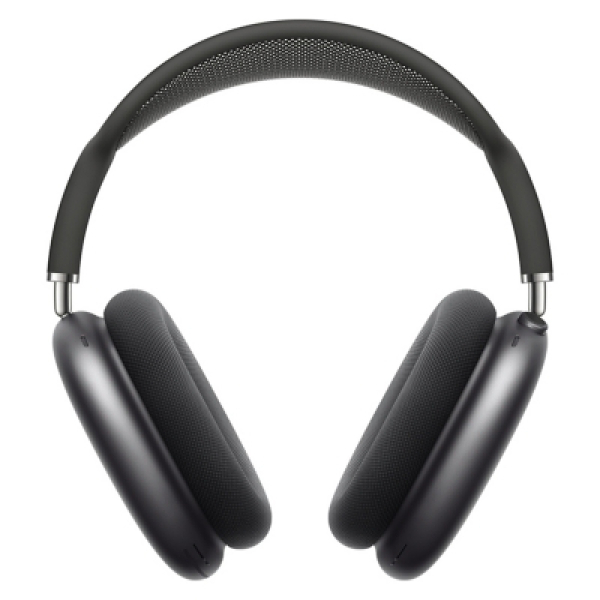
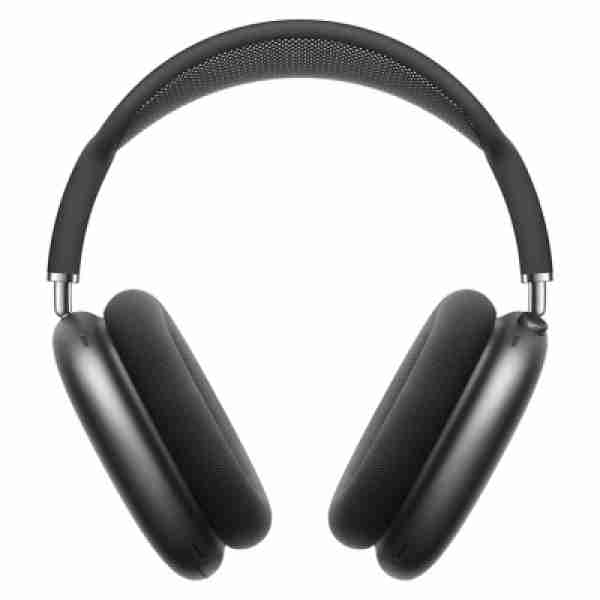
optimize images

Changed region(s): [[0.33, 0.06, 0.72, 0.15], [0.27, 0.12, 0.33, 0.15]]

diff --git a/frontend/src/pages/home.page.tsx b/frontend/src/pages/home.page.tsx
@@ -34,31 +34,31 @@ const HomePage: React.FC = () => {
                 <Grid doubling columns={5}>
                     <Grid.Column className={globalStyles.card}>
                         <Link to='./category/1'>
-                            <Image src='/images/electronics.png' className={styles.gridImage} />
+                            <Image src='/images/electronics.jpg' className={styles.gridImage} />
                             <h5>Electronics</h5>
                         </Link>
                     </Grid.Column>
                     <Grid.Column className={globalStyles.card}>
                         <Link to='./category/2'>
-                            <Image src='/images/videogames.png' className={styles.gridImage} />
+                            <Image src='/images/videogames.jpg' className={styles.gridImage} />
                             <h5>Video games</h5>
                         </Link>
                     </Grid.Column>
                     <Grid.Column className={globalStyles.card}>
                         <Link to='./category/3'>
-                            <Image src='/images/shoes.png' className={styles.gridImage} />
+                            <Image src='/images/shoes.jpg' className={styles.gridImage} />
                             <h5>Shoes</h5>
                         </Link>
                     </Grid.Column>
                     <Grid.Column className={globalStyles.card}>
                         <Link to='./category/4'>
-                            <Image src='/images/beauty.png' className={styles.gridImage} />
+                            <Image src='/images/beauty.jpg' className={styles.gridImage} />
                             <h5>Beauty & Health</h5>
                         </Link>
                     </Grid.Column>
                     <Grid.Column className={globalStyles.card}>
                         <Link to='./category/5'>
-                            <Image src='/images/toys.png' className={styles.gridImage} />
+                            <Image src='/images/toys.jpg' className={styles.gridImage} />
                             <h5>Toys & Kids</h5>
                         </Link>
                     </Grid.Column>

diff --git a/frontend/src/components/home/carousel.component.tsx b/frontend/src/components/home/carousel.component.tsx
@@ -44,9 +44,9 @@ const Carousel = () => {
                     reloadOnUpdate // default false
                     static // default false
                 >
-                    <img src="/images/electronics-carousal.png" />
-                    <img src="/images/beauty-carousal.png" />
-                    <img src="/images/toys-carousal.png" />
+                    <img src="/images/electronics-carousal.jpg" />
+                    <img src="/images/beauty-carousal.jpg" />
+                    <img src="/images/toys-carousal.jpg" />
                 </Flickity>
             </div>
             <div className={styles.carouselMobile}>
@@ -58,9 +58,9 @@ const Carousel = () => {
                     reloadOnUpdate // default false
                     static // default false
                 >
-                    <img src="/images/electronics-carousal-mobile.png" />
-                    <img src="/images/beauty-carousal-mobile.png" />
-                    <img src="/images/toys-carousal-mobile.png" />
+                    <img src="/images/electronics-carousal-mobile.jpg" />
+                    <img src="/images/beauty-carousal-mobile.jpg" />
+                    <img src="/images/toys-carousal-mobile.jpg" />
                 </Flickity>
             </div>
         </div>

diff --git a/frontend/webpack.config.js b/frontend/webpack.config.js
@@ -1,5 +1,6 @@
 const HtmlWebpackPlugin = require("html-webpack-plugin");
 const path = require("path");
+const Dotenv = require('dotenv-webpack');
 
 module.exports = {
     devtool: 'source-map',
@@ -52,6 +53,7 @@ module.exports = {
         ],
     },
     plugins: [
+        new Dotenv(),
         new HtmlWebpackPlugin({
         template: path.resolve(__dirname, "src/static", "index.html")
         })

diff --git a/frontend/src/components/header.component.tsx b/frontend/src/components/header.component.tsx
@@ -74,7 +74,7 @@ const Header = () => {
                 }
                 <li>
                     <Link to="/" replace>
-                        <img src='./images/circle.png' className={styles.logo} />
+                        <img src='./images/circle.jpg' className={styles.logo} />
                     </Link>
                 </li>
                 <li>

diff --git a/frontend/src/components/payment/promise.component.tsx b/frontend/src/components/payment/promise.component.tsx
@@ -1,5 +1,5 @@
 import { loadStripe } from '@stripe/stripe-js';
 
-const stripePromise = loadStripe('pk_test_51IaXztHM7dAIbx9CakfK3kB9ebDbihca7cXkvesYQyp4wsVZnsxeOAdwDJDivwmdocL7zMBJO4FdVaubqR7b2JFR00FhMThIzn');
+const stripePromise = loadStripe(process.env.STRIPE_PK);
 
 export default stripePromise;
